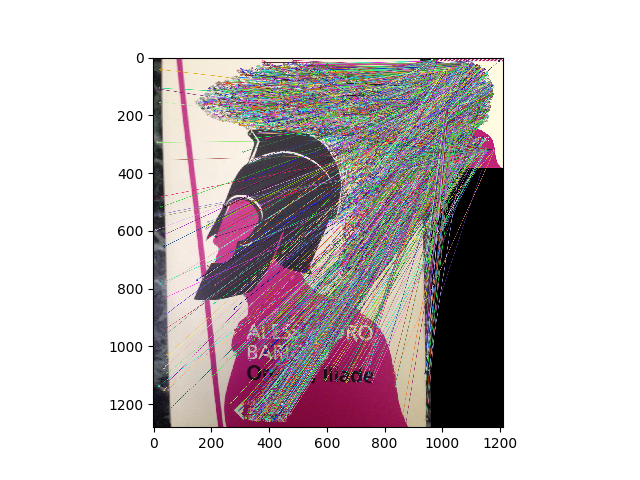
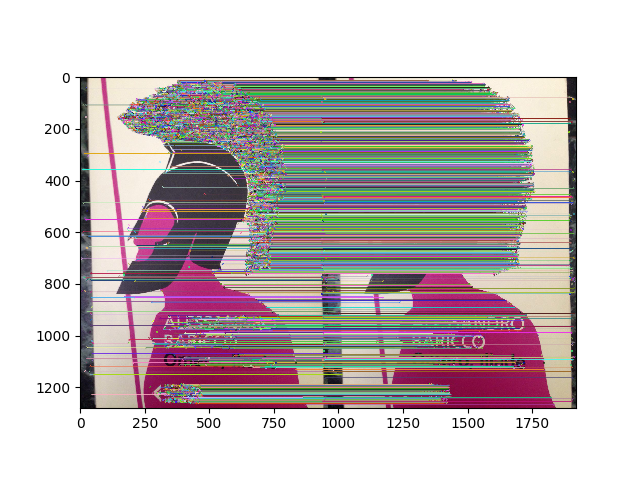
Fix bug about matches and force to check both blocks and lines

diff --git a/app.py b/app.py
@@ -42,7 +42,14 @@ def show_result():
                        this book ?')
                 return render_template('insert.html', picture=filename)
         else:
-            blocks_were_enough()
+            # let's see if lines obtain a better result than blocks
+            book_details_lines = find_book(filename)
+            if ((book_details_lines[1][0][0] - book_details[1][0][0]) +
+                    (book_details_lines[1][0][1] - book_details[1][0][1]) > 0):
+                # if similarities founded by lines are better,
+                # consider them instead of blocks
+                book_details = book_details_lines
+                # blocks_were_enough()
 
         return render_template(
             'result.html',
@@ -65,7 +72,8 @@ def show_matches():
     if request.form['tecnique'] == 'sift':
         # << << << < Updated upstream
         # if the image is stored locally
-        if request.args.get('local'):
+        print 'aaaaaaaaaaaa' + request.args.get('local')
+        if request.args.get('local') == "True":
             query = io.imread(request.args.get('query').encode('utf-8'))
         else:
             # Convert links into numpy array (right format for opencv)
